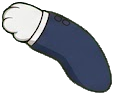
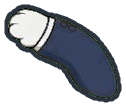
fix(art): bring the rookie's legs together and thicken the arm outlines
Plan: 2026-09-22-side-view-walk
Phase: P01-rookie-side
Task: T02-game-integration (follow-up)

- Move the hip pivots inward so both legs sit under the body
- Grow the arm-sheet outlines to match the other parts (~8 units on screen)
- Keep hanging arms splayed outward so the paws never tuck behind the jacket

Changed region(s): [[0.0, 0.0211, 1.0, 0.9895]]

diff --git a/src/scene/RookieSprite.tsx b/src/scene/RookieSprite.tsx
@@ -13,6 +13,8 @@ import { strideFor, type EmployeePose } from './walk';
  * ROOKIE_ART.scale maps the 543px-tall assembly onto the shared 200-unit rig height.
  */
 export const ROOKIE_ART = Object.freeze({ sourceHeight: 543, scale: 200 / 543, alarmDegrees: 40 });
+/** Transparent border build-rookie-parts.mjs adds around every arm PNG for its thickened outline. */
+const ARM_PAD = 6;
 
 /** 0 calm, 1 alarmed (tilted at least 40 degrees), 2 hurt (fallen). Display only. */
 export function expressionAt(angleRad: number, fallen: boolean): 0 | 1 | 2 {
@@ -58,23 +60,24 @@ export function RookieSprite({ frame, reduceMotion, pose, tumble }: RookieSprite
   const stepScale = pose === 'run' ? 1.3 : 1;
   const legFarProps = useAnimatedProps<GProps>(() => {
     const s = strideFor(pose, frame.value.distanceM);
-    return { transform: svgTransform(22 * stepScale * s, -22, -95 - Math.max(0, s) * 8 * stepScale) };
+    return { transform: svgTransform(22 * stepScale * s, -12, -95 - Math.max(0, s) * 8 * stepScale) };
   }, [frame, pose, stepScale], svgTransformAdapter);
   const legNearProps = useAnimatedProps<GProps>(() => {
     const s = strideFor(pose, frame.value.distanceM);
-    return { transform: svgTransform(-22 * stepScale * s, 26, -95 - Math.max(0, -s) * 8 * stepScale) };
+    return { transform: svgTransform(-22 * stepScale * s, 16, -95 - Math.max(0, -s) * 8 * stepScale) };
   }, [frame, pose, stepScale], svgTransformAdapter);
-  // Arms swing against the legs; raised arms replace them once the cat is alarmed or hurt.
+  // Arms swing against the legs but always stay splayed outward: rotating them inward would tuck
+  // the paws behind the jacket. Raised arms replace them once the cat is alarmed or hurt.
   const armLeftProps = useAnimatedProps<GProps>(() => {
     const s = strideFor(pose, frame.value.distanceM);
     const raised = expressionAt(frame.value.angleRad, frame.value.fallen) > 0;
-    return { opacity: raised ? 0 : 1, transform: svgTransform(6 - 10 * s, -98, -250) };
+    return { opacity: raised ? 0 : 1, transform: svgTransform(16 - 6 * s, -98, -250) };
   }, [frame, pose], svgTransformAdapter);
   const armRightProps = useAnimatedProps<GProps>(() => {
     const s = strideFor(pose, frame.value.distanceM);
     const raised = expressionAt(frame.value.angleRad, frame.value.fallen) > 0;
     const coffee = pose === 'game' && frame.value.hasCoffee;
-    return { opacity: raised || coffee ? 0 : 1, transform: svgTransform(-6 + 20 * s, 100, -250) };
+    return { opacity: raised || coffee ? 0 : 1, transform: svgTransform(-16 + 8 * s, 100, -250) };
   }, [frame, pose], svgTransformAdapter);
   const coffeeProps = useAnimatedProps<GProps>(() => ({ opacity: pose === 'game' && frame.value.hasCoffee ? 1 : 0 }), [frame, pose]);
   const raisedLeftProps = useAnimatedProps<GProps>(() => ({
@@ -109,13 +112,13 @@ export function RookieSprite({ frame, reduceMotion, pose, tumble }: RookieSprite
         <Image href={PART.legNear} x={-48} y={-90} width={103} height={185} />
       </AnimatedG>
       <AnimatedG testID="rookie-arm-left" animatedProps={armLeftProps}>
-        <G transform="scale(-1.04 1.04)"><Image href={PART.armHang} x={-34} y={-26} width={68} height={156} /></G>
+        <G transform="scale(-1.04 1.04)"><Image href={PART.armHang} x={-34 - ARM_PAD} y={-26 - ARM_PAD} width={68 + 2 * ARM_PAD} height={156 + 2 * ARM_PAD} /></G>
       </AnimatedG>
       <AnimatedG testID="empty-hand" animatedProps={armRightProps}>
-        <G testID="rookie-arm-right" transform="scale(1.04)"><Image href={PART.armHang} x={-34} y={-26} width={68} height={156} /></G>
+        <G testID="rookie-arm-right" transform="scale(1.04)"><Image href={PART.armHang} x={-34 - ARM_PAD} y={-26 - ARM_PAD} width={68 + 2 * ARM_PAD} height={156 + 2 * ARM_PAD} /></G>
       </AnimatedG>
       <AnimatedG testID="cup-visibility" animatedProps={coffeeProps}>
-        <G testID="cup" transform="translate(88 -248) scale(1.04)"><Image href={PART.armCoffee} x={-30} y={-22} width={153} height={108} /></G>
+        <G testID="cup" transform="translate(88 -248) scale(1.04)"><Image href={PART.armCoffee} x={-30 - ARM_PAD} y={-22 - ARM_PAD} width={153 + 2 * ARM_PAD} height={108 + 2 * ARM_PAD} /></G>
       </AnimatedG>
       <Image testID="outfit-rookie" href={PART.torso} x={-112} y={-337} width={225} height={282} />
       <AnimatedG testID="plush-head" animatedProps={headProps}>
@@ -129,10 +132,10 @@ export function RookieSprite({ frame, reduceMotion, pose, tumble }: RookieSprite
         </G>
       </AnimatedG>
       <AnimatedG testID="raised-arm-left" animatedProps={raisedLeftProps}>
-        <G transform="translate(-96 -236) scale(0.936)"><Image href={PART.armUpLeft} x={-96} y={-76} width={114} height={95} /></G>
+        <G transform="translate(-96 -236) scale(0.936)"><Image href={PART.armUpLeft} x={-96 - ARM_PAD} y={-76 - ARM_PAD} width={114 + 2 * ARM_PAD} height={95 + 2 * ARM_PAD} /></G>
       </AnimatedG>
       <AnimatedG testID="raised-arm-right" animatedProps={raisedRightProps}>
-        <G transform="translate(98 -236) scale(0.936)"><Image href={PART.armUpRight} x={-22} y={-76} width={121} height={93} /></G>
+        <G transform="translate(98 -236) scale(0.936)"><Image href={PART.armUpRight} x={-22 - ARM_PAD} y={-76 - ARM_PAD} width={121 + 2 * ARM_PAD} height={93 + 2 * ARM_PAD} /></G>
       </AnimatedG>
     </G>
   );

diff --git a/src/scene/__tests__/RookieSprite.test.tsx b/src/scene/__tests__/RookieSprite.test.tsx
@@ -106,13 +106,22 @@ test.each(['diligent', 'veteran'] as const)('reward %s keeps its previous flat s
   expect(opacityOf('cup-visibility')).toBe(1);
 });
 
+test.each([-1, 0, 1])('hanging arms stay splayed outward at stride %s so the paws never tuck behind the jacket', async stride => {
+  const quarter = NYANG_WALK.metersPerCycle / 4;
+  const distanceM = stride === 0 ? 0 : stride > 0 ? quarter : quarter * 3;
+  await render(<Svg><NyangCharacter frame={makeMutable<SceneFrame>({ ...initial, distanceM })} reduceMotion /></Svg>);
+  // The left arm is mirrored, so a positive angle opens it outward; the right arm opens with a negative one.
+  expect(matrixOf('rookie-arm-left')[1]).toBeGreaterThan(0);
+  expect(matrixOf('empty-hand')[1]).toBeLessThan(0);
+});
+
 test('arm swing follows a replaced shared frame and leaves the stale frame disconnected', async () => {
   const previous = makeMutable<SceneFrame>({ ...initial });
   const rendered = await render(<Svg><NyangCharacter frame={previous} reduceMotion /></Svg>);
   const replacement = makeMutable<SceneFrame>({ ...initial });
   await rendered.rerender(<Svg><NyangCharacter frame={replacement} reduceMotion /></Svg>);
   await act(() => { replacement.value = { ...initial, distanceM: NYANG_WALK.metersPerCycle / 4 }; });
-  await waitFor(() => expect(matrixOf('rookie-arm-left')[1]).toBeCloseTo(Math.sin(-4 * DEG)));
+  await waitFor(() => expect(matrixOf('rookie-arm-left')[1]).toBeCloseTo(Math.sin(10 * DEG)));
   const pose = [...matrixOf('rookie-arm-left')];
   await act(() => { previous.value = { ...initial, distanceM: NYANG_WALK.metersPerCycle * 3 / 4 }; });
   expect(matrixOf('rookie-arm-left')).toEqual(pose);

diff --git a/src/scene/__tests__/GameScene.test.tsx b/src/scene/__tests__/GameScene.test.tsx
@@ -127,8 +127,8 @@ describe('GameScene contracts', () => {
     await mountScene(frame({ distanceM }));
     // leg-left is the far leg, leg-right the near leg; +x is the walking direction.
     for (const [id, degrees, hipX, lift] of [
-      ['leg-left', 22 * stride, -22, Math.max(0, stride) * 8],
-      ['leg-right', -22 * stride, 26, Math.max(0, -stride) * 8],
+      ['leg-left', 22 * stride, -12, Math.max(0, stride) * 8],
+      ['leg-right', -22 * stride, 16, Math.max(0, -stride) * 8],
     ] as const) {
       const props = byId(id).props.jestAnimatedProps.value;
       const matrix = props.matrix ?? props.transform;

diff --git a/docs/learning-notes/2026-09-22-side-view-walk.md b/docs/learning-notes/2026-09-22-side-view-walk.md
@@ -35,3 +35,9 @@
 ## 남은 것
 - 원본 시트가 1024px 압축본이라 고해상도 폰에서 약간 흐릴 수 있다. 원본 PNG를 받으면 `docs/art/source` 교체 후 빌드 스크립트만 다시 돌리면 된다(부품 크기가 달라지면 `pick()` 기대 크기와 조립 좌표도 갱신).
 - iPhone/Hermes 실제 렌더링, 장시간 성능 미검증. 보상 캐릭터 2종은 P02.
+
+## 후속 수정: 다리 간격과 팔 테두리
+- 다리 엉덩이 축 x를 -22/26 → -12/16으로 옮겨 두 다리를 몸 가운데로 모았다(사용자 선택: "두 다리를 더 붙이기").
+- 팔 테두리: 부위별 외곽선 두께를 픽셀로 재 보니 화면 기준 머리 9·몸통 8·다리 7·꼬리 8인데 팔은 3~4였다(팔 시트가 더 작게 그려짐). `build-rookie-parts.mjs`가 팔 PNG마다 6px 투명 여백을 두고 외곽선을 바깥으로 2~4px, 안쪽 선을 1px 키운다 → 팔도 약 8.
+- 이 과정에서 발견: 팔을 화면 평면에서 앞뒤로 흔들면 걸음 위상의 절반 동안 앞발이 몸통 안쪽으로 돌아가 재킷 뒤에 숨었다. 기본 각도를 바깥 16°로 벌리고 흔들림을 ±6~8°로 줄여 항상 바깥에 보이게 했다(회귀 테스트 추가).
+- 검증: typecheck, Jest 653, 3 builds, Chromium 34 pass/11 skip/0 fail(3.3분), rules 불변, 4173 = index-ab31401d71a5bfdf39f49db050542898.js.
